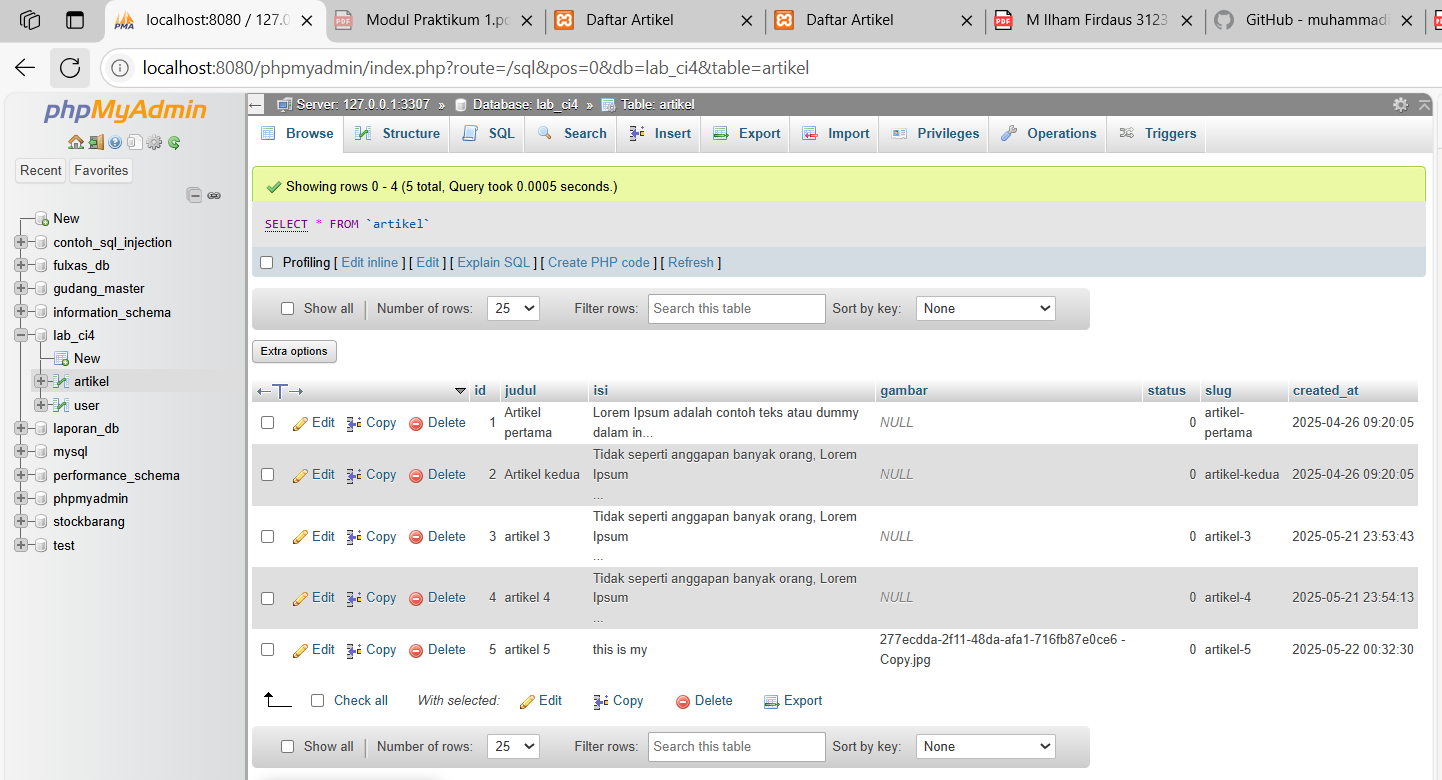
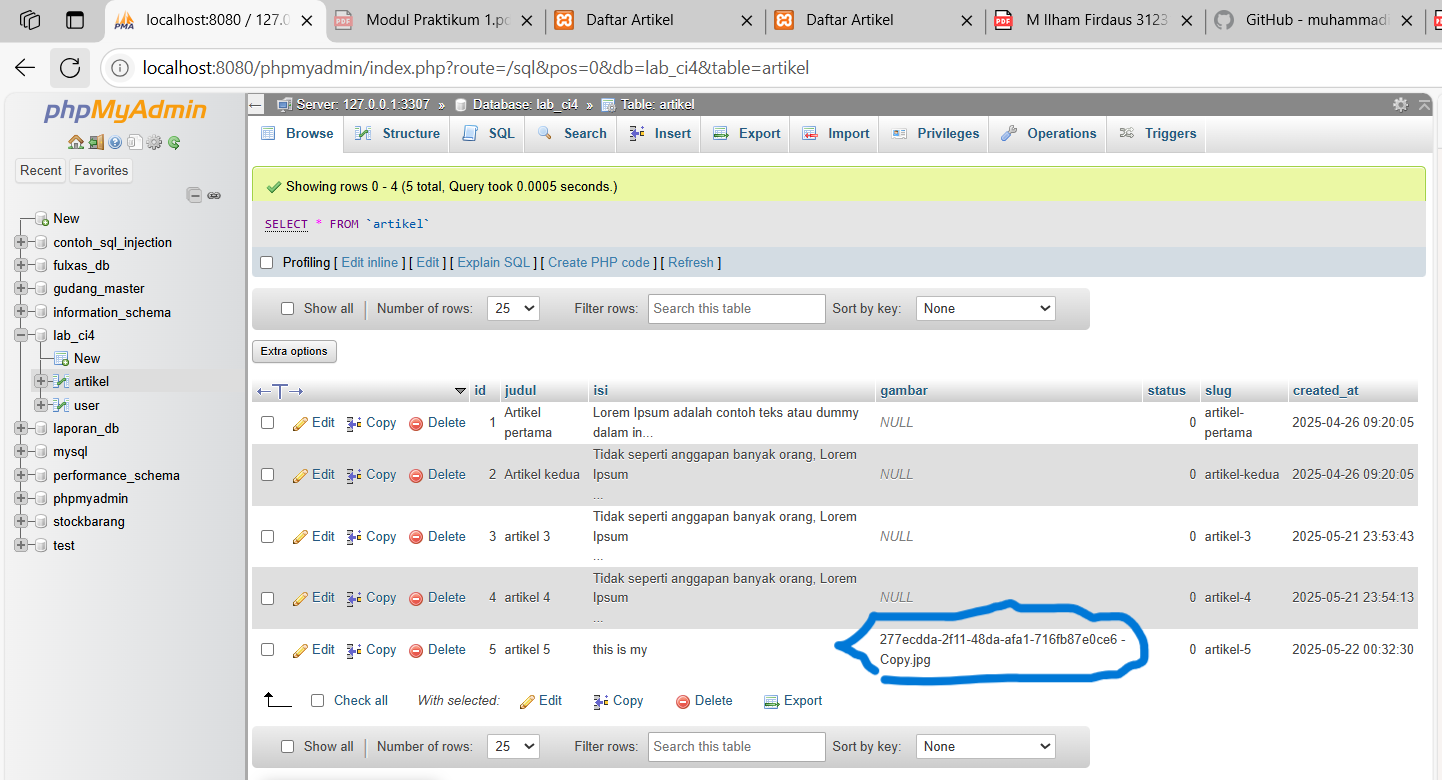
edit readme

Changed region(s): [[0.5617, 0.7692, 0.7802, 0.8923], [0.7802, 0.8, 0.8114, 0.8615]]

diff --git a/README.md b/README.md
@@ -142,7 +142,11 @@ Saya menambahkan fitur pencarian dengan query `q`, melakukan filter `like('judul
 - Mengupdate method `add()` pada `Artikel.php` untuk menyimpan file gambar ke folder `public/gambar`
 - Menyimpan nama file gambar ke database
 
+tambah artikel
+
 ![hasil](img/upload.png)
+
+gambar masuk ke database
 
 ![hasil](img/databaseupload.png)
 
